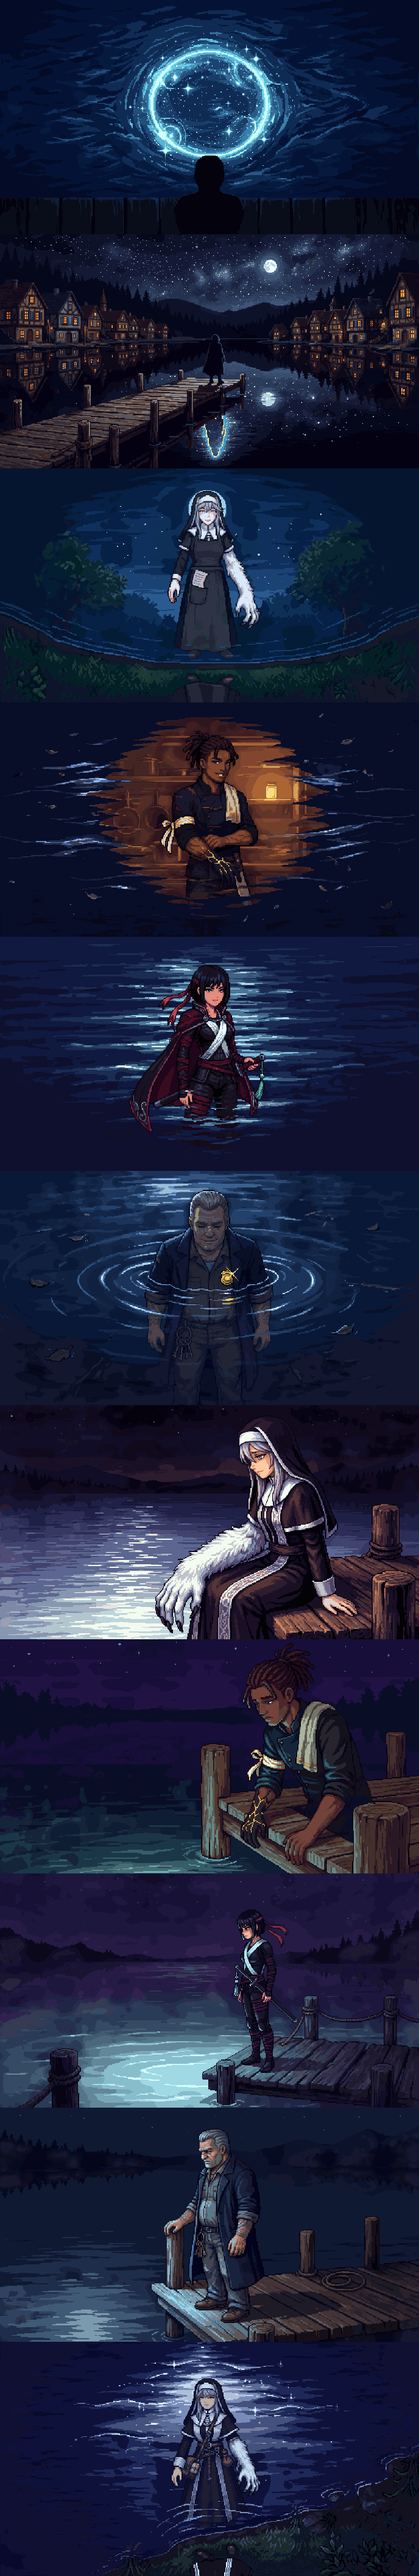
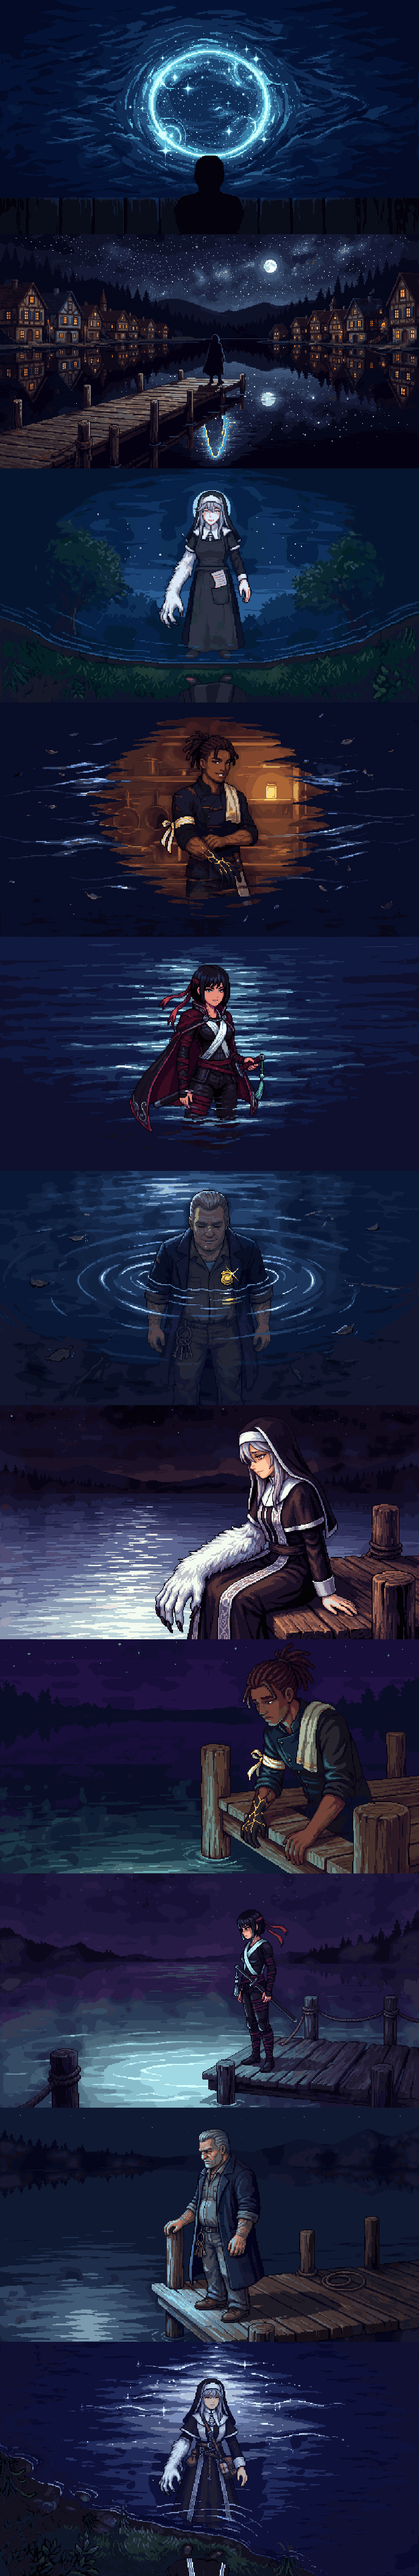
Mirror the-mirror shots 3 and 11 so Mira's wolf arm is her right
Claude-Session: https://claude.ai/code/session_01Mqbwb3vBTod3APyq2XNhsx

diff --git a/game/CREDITS.md b/game/CREDITS.md
@@ -22,7 +22,7 @@ Everything here was first made for or gathered by the first game, [Isekai'd Into
 | Chapter 1's leads' and Freya's expressions (`assets/img/portraits/mira-*`, `kai-*`, `seoyeon-*`, `dutch-*` and `freya-*` other than the three above: smile, sad, angry, surprised and tired, with `anger`, `shock`, `grief` and `warm` as copies of angry, surprised, sad and smile for the chapter code's face names; Freya also has laugh, and her old smiling neutral is now `freya-smile`/`freya-warm`) | Generated for this game with [PixelLab](https://pixellab.ai) on Ladi's subscription on 2026-10-21: text edits (`edit-image`, `edit-image-pro-flash`, `edit-images-v2`) of each character's own neutral portrait, at its 1x size, scaled up 3x with hard pixel edges | Used under PixelLab's [Terms of Service](https://pixellab.ai/termsofservice) | Faces in dialogue |
 | Chapters 2 to 6's recurring cast in dialogue (`assets/img/portraits/` `coo-*`, `seymour-*`, `faithful-*` (Elder Wren), `marrow-*`, `tilly-*`, `anselm-*`, `hale-*`, `pip-*`, `bru-*`, `kagemaru-*`, `hana-*`, `wen-*`, `noor-*`, `ash-*` (Mother Ash), `selvaria-*`, `aurelian-*`, `lexi-*`, `gu-*` (Old Gu), `namgung-*`, `ok-*` (Madam Ok), `jin-*`, `ashgrove-*`, `theo-*`, `iris-*`, `pella-*`, `ayo-*`, `kaito-*`, `cron-*`, `gary-neutral`, `aigerim-*`, `mio-*`, `chad-*`) | Generated for this game with [PixelLab](https://pixellab.ai) on Ladi's subscription on 2026-10-21: each neutral drawn from a written description of the character (Story Bible and the first game's look) with one of the leads' portraits as the style image (`create-image-pro-flash`), and each second face a text edit of that neutral (`edit-image-pro-flash`), scaled up 3x with hard pixel edges | Used under PixelLab's [Terms of Service](https://pixellab.ai/termsofservice) | Faces in dialogue from chapter 2 on |
 | The first game's people seven years on, and Grandma Wen as she always looks (`assets/img/portraits/` `aigerim-neutral`, `ayo-neutral`, `bru-smile`, `bru-neutral`, `chad-neutral`, `gary-neutral`, `kaito-neutral`, `mio-neutral`, `wen-neutral`, `wen-smile`, replacing those in the row above) | Generated for this game with [PixelLab](https://pixellab.ai) on Ladi's subscription on 2026-10-21 (`generate-image-v2`): each drawn from the character's first-game portrait (Isekai'd Into Prod) as the likeness, aged seven years (Wen not at all), with this game's earlier portrait as the style image; Ladi's picks, scaled up 3x with hard pixel edges. `bru-neutral` is `bru-smile` with the mouth and cheeks repainted to a neutral face by Google's Gemini image model (gemini-3-pro-image-preview) through the Gemini API on Ladi's account, snapped back to the portrait's own pixels and colours | Used under PixelLab's [Terms of Service](https://pixellab.ai/termsofservice) and the [Gemini API Additional Terms of Service](https://ai.google.dev/gemini-api/terms) | Faces in dialogue |
-| Chapter 5's cutscenes from Lina's Voice to the Lanterns Go Out, and all of Chapter 6's (`assets/img/cut/` `linas-voice`, `linas-voice-dawn`, `the-ledgers`, `the-button`, `a-deal`, `backoff`, `turned-on`, `the-record`, `the-record-ev1`, `the-record-ev2`, `the-record-dark`, `the-shift`, `the-rail`, `the-rail-hold`, `the-rail-let`, `she-nearly-did`, `the-lanterns-go-out`, `the-day-gary-quit`, `the-offer-on-the-jetty`, `the-mirror`, `the-ring-in-the-bunker`, `the-clock-room-intro`, `the-clock-room`, `the-confrontation`, `the-confrontation-shore`, `the-confrontation-copy`, `the-confrontation-bravo`, `no-my-lady`, `switched-sides`, `kagemarus-choice`, `the-backlog`, `the-freed-floors`, each a sheet of 16:9 shots) | Generated for this game with [PixelLab](https://pixellab.ai) on Ladi's subscription on 2026-10-22 (`generate-image-v2`), one still per storyboard shot (`storyboard/ch5`, `storyboard/ch6`), with the cast's portraits as likeness references (young Gary in 1984 from his first-game portrait); a few stills touched up by Google's Gemini image model (gemini-3-pro-image-preview) through the Gemini API on Ladi's account. Stacked into sheets by the cutscene pipeline's `gen.py --export` | Used under PixelLab's [Terms of Service](https://pixellab.ai/termsofservice) and the [Gemini API Additional Terms of Service](https://ai.google.dev/gemini-api/terms) | Chapter 5 and 6 cutscenes (`js/cut-ch5b.js`, `js/cut-ch6.js`) |
+| Chapter 5's cutscenes from Lina's Voice to the Lanterns Go Out, and all of Chapter 6's (`assets/img/cut/` `linas-voice`, `linas-voice-dawn`, `the-ledgers`, `the-button`, `a-deal`, `backoff`, `turned-on`, `the-record`, `the-record-ev1`, `the-record-ev2`, `the-record-dark`, `the-shift`, `the-rail`, `the-rail-hold`, `the-rail-let`, `she-nearly-did`, `the-lanterns-go-out`, `the-day-gary-quit`, `the-offer-on-the-jetty`, `the-mirror`, `the-ring-in-the-bunker`, `the-clock-room-intro`, `the-clock-room`, `the-confrontation`, `the-confrontation-shore`, `the-confrontation-copy`, `the-confrontation-bravo`, `no-my-lady`, `switched-sides`, `kagemarus-choice`, `the-backlog`, `the-freed-floors`, each a sheet of 16:9 shots) | Generated for this game with [PixelLab](https://pixellab.ai) on Ladi's subscription on 2026-10-22 (`generate-image-v2`), one still per storyboard shot (`storyboard/ch5`, `storyboard/ch6`), with the cast's portraits as likeness references (young Gary in 1984 from his first-game portrait); `the-mirror` shots 3 and 11 mirrored on 2026-10-24 so Mira's wolf arm is on her right; a few stills touched up by Google's Gemini image model (gemini-3-pro-image-preview) through the Gemini API on Ladi's account. Stacked into sheets by the cutscene pipeline's `gen.py --export` | Used under PixelLab's [Terms of Service](https://pixellab.ai/termsofservice) and the [Gemini API Additional Terms of Service](https://ai.google.dev/gemini-api/terms) | Chapter 5 and 6 cutscenes (`js/cut-ch5b.js`, `js/cut-ch6.js`) |
 | Chapter 2's cutscene stills (`assets/img/cut/` `floor-seven`, `freya-visits`, `hale-escapes`, `she-did-my-taxes`, `sunlight`, `the-dispatches`, `the-grey-novice`, `thornwick-freed`, `three-one-four-cart`, `tilly`, `two-prayers`, `unmake-it`, `uptima-in-chains`, `uptima-reads-the-prayer`, `what-he-felt`, each a sheet of 16:9 shots, and the ghost frames `freya-back` and `freya-projection`) | Generated for this game with [PixelLab](https://pixellab.ai) on Ladi's subscription on 2026-10-22 (`generate-image-v2`), one still per storyboard shot (`storyboard/ch2`), with the cast's portraits as likeness references; `three-one-four-cart` redrawn the same day under its own name. Stacked into sheets by the cutscene pipeline's `gen.py --export` | Used under PixelLab's [Terms of Service](https://pixellab.ai/termsofservice) | Chapter 2's cutscenes, in place of the vector stills (`js/cut-ch2.js`) |
 | Chapter 2's first-half cutscene stills (`assets/img/cut/` `brams-wagon`, `the-edge`, `the-tower`, `the-scrap-field`, `the-bunker`, `elder-wren`, `the-first-fire`, `thornwick-square`, `the-post-box`, `mira-doesnt-answer`, `the-sorting-floors`, `floors-grow-back`, `shipped`, each a sheet of 16:9 shots) | Generated for this game with [PixelLab](https://pixellab.ai) on Ladi's subscription on 2026-10-22 (`generate-image-v2`), one still per storyboard shot (`storyboard/ch2a`), with the cast's portraits as likeness references (Coo, Elder Wren and Pip from their portraits); `the-bunker` shot 4 (Mira at the hatch) redrawn the same way on 2026-10-24 to give her one arm from each shoulder. Stacked into sheets by the cutscene pipeline's `gen.py --export` | Used under PixelLab's [Terms of Service](https://pixellab.ai/termsofservice) | Chapter 2's first-half cutscenes, in place of the vector stills (`js/cut-ch2a.js`) |
 | The last drawn cutscenes of Chapters 5 and 6 (`assets/img/cut/` `iris-at-the-gate`, `linas-chart`, `freya-at-camp`, each a sheet of 16:9 shots) | Generated for this game with [PixelLab](https://pixellab.ai) on Ladi's subscription on 2026-10-23 (`generate-image-v2`), one still per storyboard shot (`storyboard/ch56x`), with the cast's portraits as likeness references. Stacked into sheets by the cutscene pipeline's `gen.py --export` | Used under PixelLab's [Terms of Service](https://pixellab.ai/termsofservice) | Professor Iris Vell, Lina's chart and Freya at camp, in place of the vector backdrops (`js/cut-ch56x.js`) |
